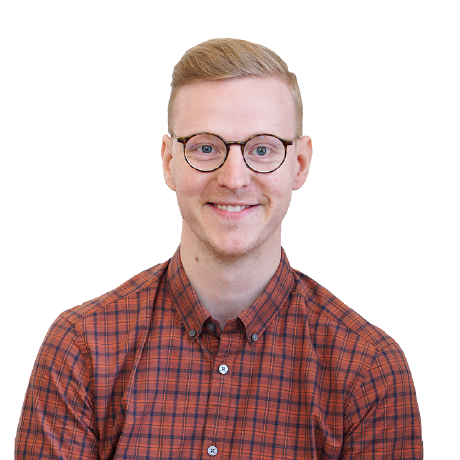
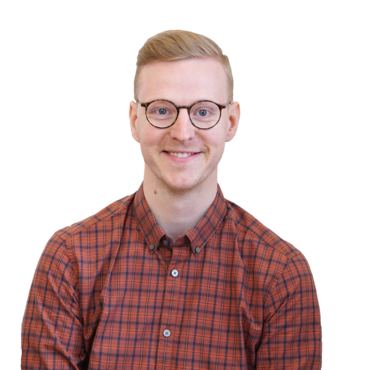
chore: optimize about image

diff --git a/src/routes/about.svelte b/src/routes/about.svelte
@@ -51,13 +51,16 @@
       <div class="relative text-base mx-auto max-w-prose lg:max-w-none">
         <figure>
           <div class="aspect-w-12 aspect-h-7 lg:aspect-none">
-            <img
-              class="rounded-lg shadow-lg bg-white object-contain object-center"
-              src="/images/loke.png"
-              alt="Loke"
-              width={460}
-              height={460}
-            />
+            <picture>
+              <source srcSet="/images/loke.webp" type="image/webp" />
+              <img
+                class="rounded-lg shadow-lg bg-white object-contain object-center"
+                src="/images/loke.png"
+                alt="Loke"
+                width={370}
+                height={370}
+              />
+            </picture>
           </div>
         </figure>
       </div>
